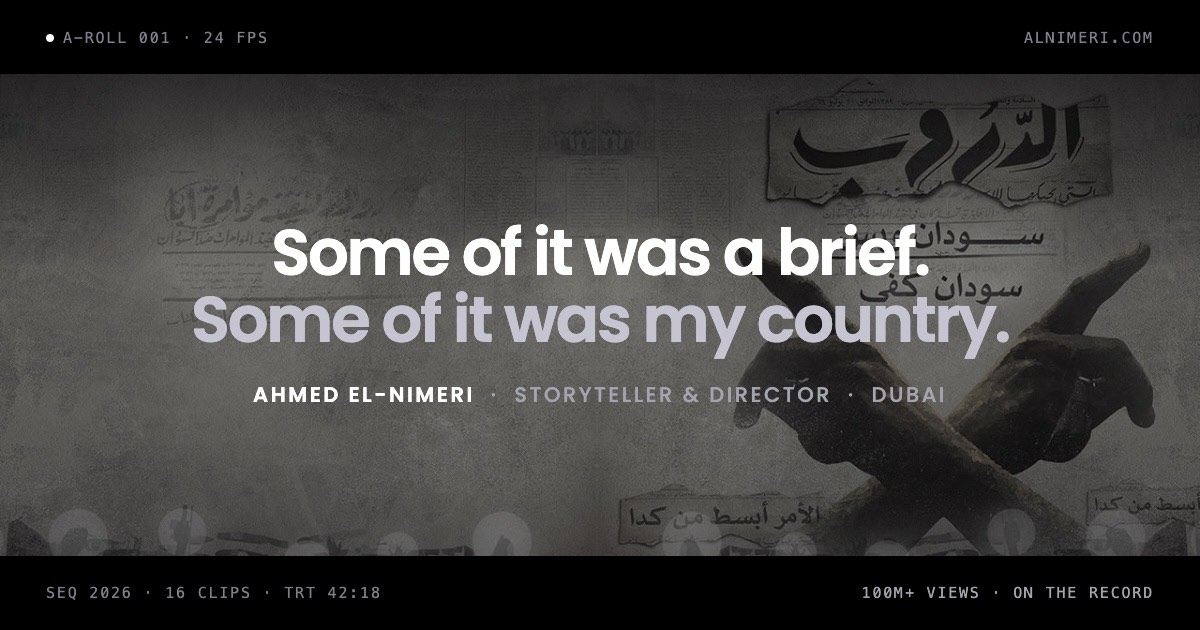
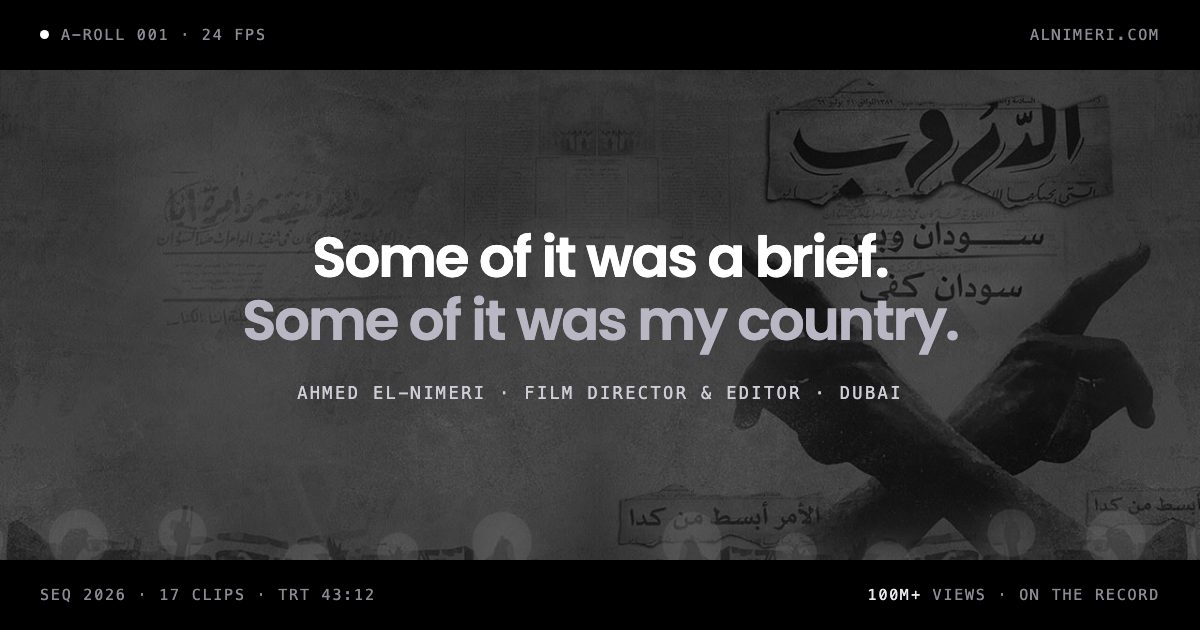
A share card for each page, with numbers that are true
The card that shipped with every link said 16 CLIPS / TRT 42:18 — it had
been out of date since the seventeenth film. bin-build-og.py now writes the
cards from index.html (count and running time derived, never typed) and they
are rendered through the local server so they use the site's own typeface.

Four cards: the home line, the films index (Seventeen films, 43:12 on the
record), About, and the CV. About, CV and /work/ previously all shared the
home card; About and CV had no twitter:image at all.

diff --git a/about.html b/about.html
@@ -18,7 +18,10 @@
 <meta property="og:url" content="https://alnimeri.com/about">
 <meta property="og:title" content="About — Ahmed El-Nimeri, Storyteller &amp; Director">
 <meta property="og:description" content="Eleven years of film work for Solana, the European Union, Al Jazeera, TED and the ICC.">
-<meta property="og:image" content="https://alnimeri.com/assets/og.jpg">
+<meta property="og:image" content="https://alnimeri.com/assets/og-about.jpg">
+<meta property="og:image:width" content="1200">
+<meta property="og:image:height" content="630">
+<meta name="twitter:image" content="https://alnimeri.com/assets/og-about.jpg">
 <meta name="twitter:card" content="summary_large_image">
 
 <link rel="preload" as="font" type="font/woff2" href="assets/fonts/poppins-600.woff2" crossorigin>

diff --git a/cv.html b/cv.html
@@ -18,7 +18,10 @@
 <meta property="og:url" content="https://alnimeri.com/cv">
 <meta property="og:title" content="CV — Ahmed El-Nimeri, Storyteller &amp; Director">
 <meta property="og:description" content="Eleven years of film work for Solana, the European Union, Al Jazeera, TED and the ICC.">
-<meta property="og:image" content="https://alnimeri.com/assets/og.jpg">
+<meta property="og:image" content="https://alnimeri.com/assets/og-cv.jpg">
+<meta property="og:image:width" content="1200">
+<meta property="og:image:height" content="630">
+<meta name="twitter:image" content="https://alnimeri.com/assets/og-cv.jpg">
 <meta name="twitter:card" content="summary_large_image">
 
 <link rel="preload" as="font" type="font/woff2" href="assets/fonts/poppins-600.woff2" crossorigin>

diff --git a/work/index.html b/work/index.html
@@ -16,7 +16,7 @@
 <meta property="og:title" content="All films — Ahmed El-Nimeri">
 <meta property="og:description" content="Every film by Ahmed El-Nimeri on this site — seventeen pieces, 43:12 total running time, each with its published view count and source.">
 <meta property="og:url" content="https://alnimeri.com/work/">
-<meta property="og:image" content="https://alnimeri.com/assets/posters/1058181870.jpg">
+<meta property="og:image" content="https://alnimeri.com/assets/og-work.jpg">
 <meta name="twitter:card" content="summary_large_image">
 <link rel="preload" as="font" type="font/woff2" href="/assets/fonts/poppins-600.woff2" crossorigin>
 <link rel="stylesheet" href="/styles.css?v=89">

diff --git a/bin-build-og.py b/bin-build-og.py
@@ -1,0 +1,60 @@
+#!/usr/bin/env python3
+"""Write the share cards' HTML, one per page, for rendering at 1200x630.
+
+The card that shipped said "16 CLIPS · TRT 42:18" long after the seventeenth
+film landed: every number here is derived from index.html, like every other
+printed number on the site. Render with bin-render-og.sh, which screenshots
+these through the local server so the cards use the site's own typeface.
+"""
+import re, html, pathlib
+
+SRC = open('index.html').read()
+films = re.findall(r'<article class="tile[\s\S]+?</article>', SRC)
+durs = [re.search(r'tile__dur">([\d:]+)<', b).group(1) for b in films]
+secs = sum(int(d.split(':')[0]) * 60 + int(d.split(':')[1]) for d in durs)
+TRT = f'{secs // 60}:{secs % 60:02d}'
+N = len(films)
+WORDS = {14: 'Fourteen', 15: 'Fifteen', 16: 'Sixteen', 17: 'Seventeen', 18: 'Eighteen', 19: 'Nineteen', 20: 'Twenty'}
+
+CARDS = [
+    ('og', '/assets/posters/843280565.jpg', 'Some of it was a brief.', 'Some of it was my country.',
+     'AHMED EL-NIMERI · FILM DIRECTOR &amp; EDITOR · DUBAI', 'A-ROLL 001'),
+    ('og-work', '/assets/posters/1058181870.jpg', f'{WORDS.get(N, N)} films.', f'{TRT} on the record.',
+     'BRAND · EVENT · DOCUMENTARY · MOTION', 'B-ROLL 002'),
+    ('og-about', '/assets/portrait/beach-1280.jpg', 'Rooms, rigs and monitors.', 'And what people said after.',
+     'AHMED EL-NIMERI · ABOUT · DUBAI', 'A-ROLL 003'),
+    ('og-cv', '/assets/onset/2020-monitor.jpg', 'Eleven years of film.', 'Sudan, the Gulf, and further out.',
+     'AHMED EL-NIMERI · CV &amp; EXPERIENCE · DUBAI', 'A-ROLL 004'),
+]
+
+TPL = '''<!doctype html><html lang="en"><head><meta charset="utf-8"><style>
+@font-face {{ font-family: P; src: url("/assets/fonts/poppins-600.woff2") format("woff2"); font-weight: 600; font-display: block; }}
+@font-face {{ font-family: P; src: url("/assets/fonts/poppins-400.woff2") format("woff2"); font-weight: 400; font-display: block; }}
+* {{ margin: 0; box-sizing: border-box; }}
+body {{ width: 1200px; height: 630px; overflow: hidden; background: #0a0a0c; font-family: P, system-ui, sans-serif; }}
+.card {{ position: relative; width: 1200px; height: 630px; }}
+.plate {{ position: absolute; inset: 70px 0; width: 1200px; height: 490px; object-fit: cover; filter: grayscale(1) contrast(1.02); opacity: .38; }}
+.bar {{ position: absolute; left: 0; right: 0; height: 70px; background: #000; display: flex; align-items: center;
+       justify-content: space-between; padding: 0 40px; color: #8b8992;
+       font-family: ui-monospace, "SF Mono", Menlo, monospace; font-size: 15px; letter-spacing: .12em; }}
+.bar--top {{ top: 0; }} .bar--bot {{ bottom: 0; }}
+.bar b {{ color: #e9e8ee; font-weight: 400; }}
+.mid {{ position: absolute; inset: 70px 0; display: flex; flex-direction: column; align-items: center; justify-content: center; text-align: center; padding: 0 70px; }}
+h1 {{ font-size: 56px; font-weight: 600; letter-spacing: -.035em; line-height: 1.12; color: #fff; }}
+h1 span {{ color: #b9b7c4; display: block; }}
+.who {{ margin-top: 30px; font-family: ui-monospace, "SF Mono", Menlo, monospace; font-size: 17px;
+        letter-spacing: .14em; color: #cfced6; }}
+.dot {{ width: 9px; height: 9px; border-radius: 50%; background: #fff; display: inline-block; margin-right: 12px; vertical-align: 1px; }}
+</style></head><body><div class="card">
+  <img class="plate" src="{plate}" alt="">
+  <div class="bar bar--top"><span><i class="dot"></i>{roll} &middot; 24 FPS</span><span>ALNIMERI.COM</span></div>
+  <div class="mid"><h1>{line1}<span>{line2}</span></h1><p class="who">{who}</p></div>
+  <div class="bar bar--bot"><span>SEQ 2026 &middot; {n} CLIPS &middot; TRT {trt}</span><span><b>100M+</b> VIEWS &middot; ON THE RECORD</span></div>
+</div></body></html>'''
+
+out = []
+for name, plate, l1, l2, who, roll in CARDS:
+    p = pathlib.Path(f'_{name}.html')
+    p.write_text(TPL.format(plate=plate, line1=html.escape(l1), line2=html.escape(l2), who=who, roll=roll, n=N, trt=TRT))
+    out.append(str(p))
+print(f'{len(out)} share cards written for rendering ({N} clips, TRT {TRT}): ' + ', '.join(out))

diff --git a/bin-build-work-pages.py b/bin-build-work-pages.py
@@ -366,7 +366,7 @@ idx_schema = {
     "hasPart": [{"@type": "WebPage", "name": html.unescape(f['title']),
                  "url": f"https://alnimeri.com/work/{f['slug']}"} for f in films]}
 
-idx = (HEAD.format(title='All films', slug='', poster=films[0]['poster'].split('?')[0], ver=VER, mark=MARK,
+idx = (HEAD.format(title='All films', slug='', poster='assets/og-work.jpg', ver=VER, mark=MARK,
                    desc=f'Every film by Ahmed El-Nimeri on this site — {COUNT} pieces, {TRT} total running time, each with its published view count and source.',
                    schema=json.dumps(idx_schema, ensure_ascii=False))
        .replace('<link rel="canonical" href="https://alnimeri.com/work/">',
